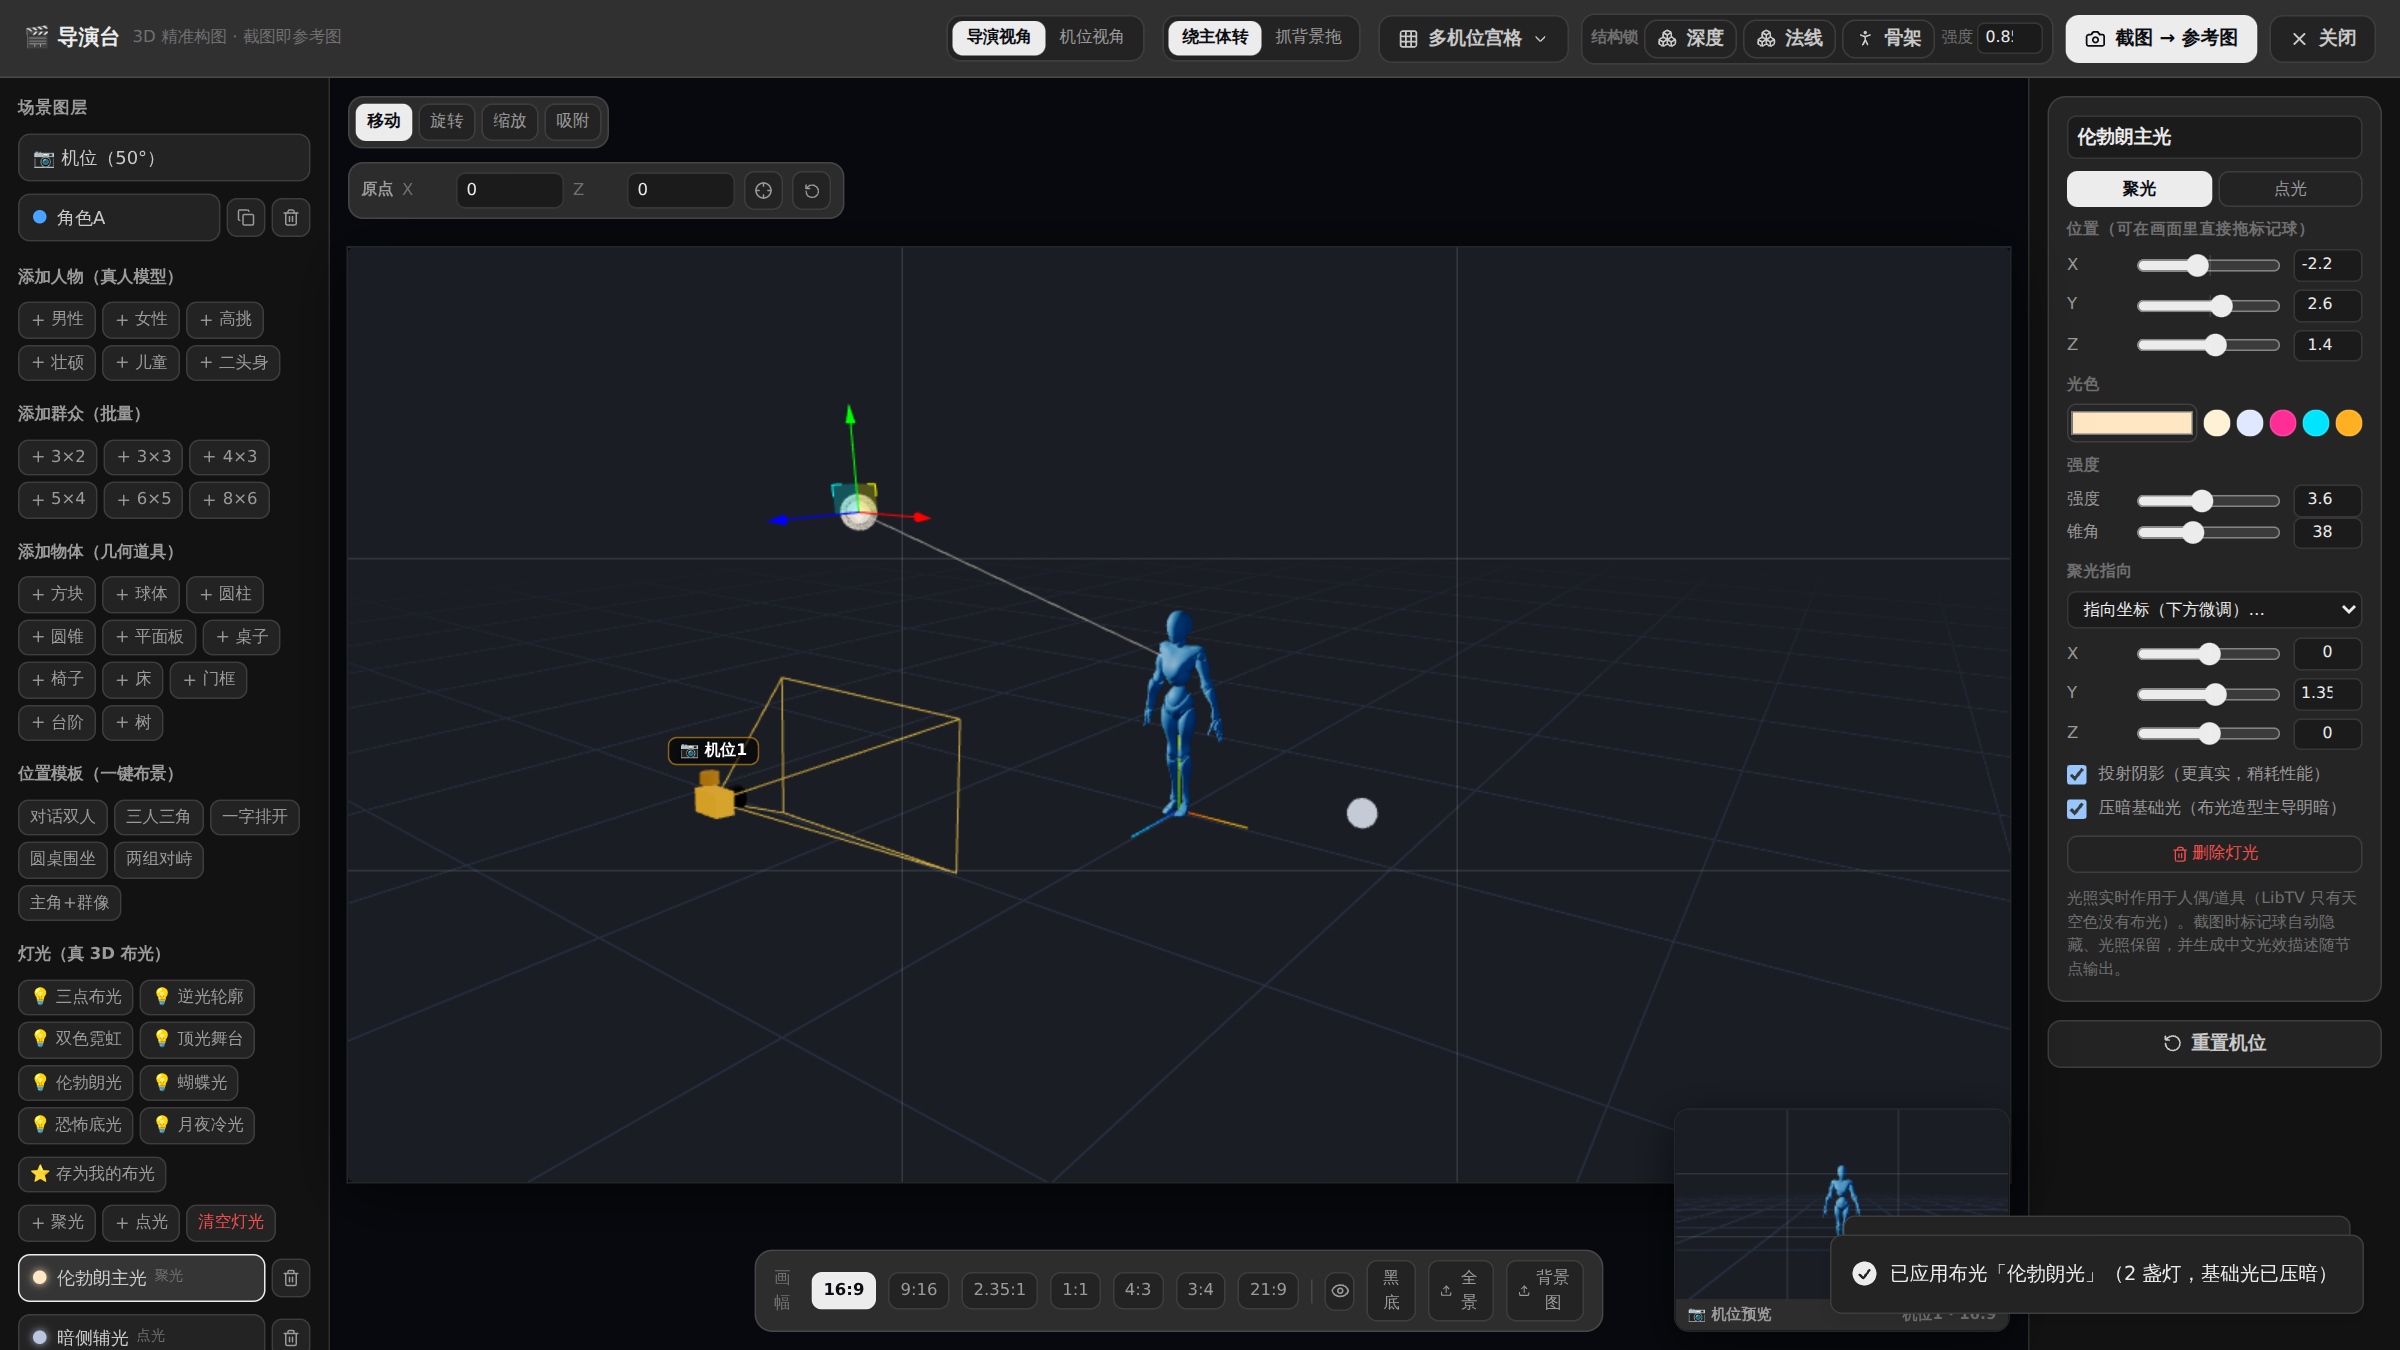
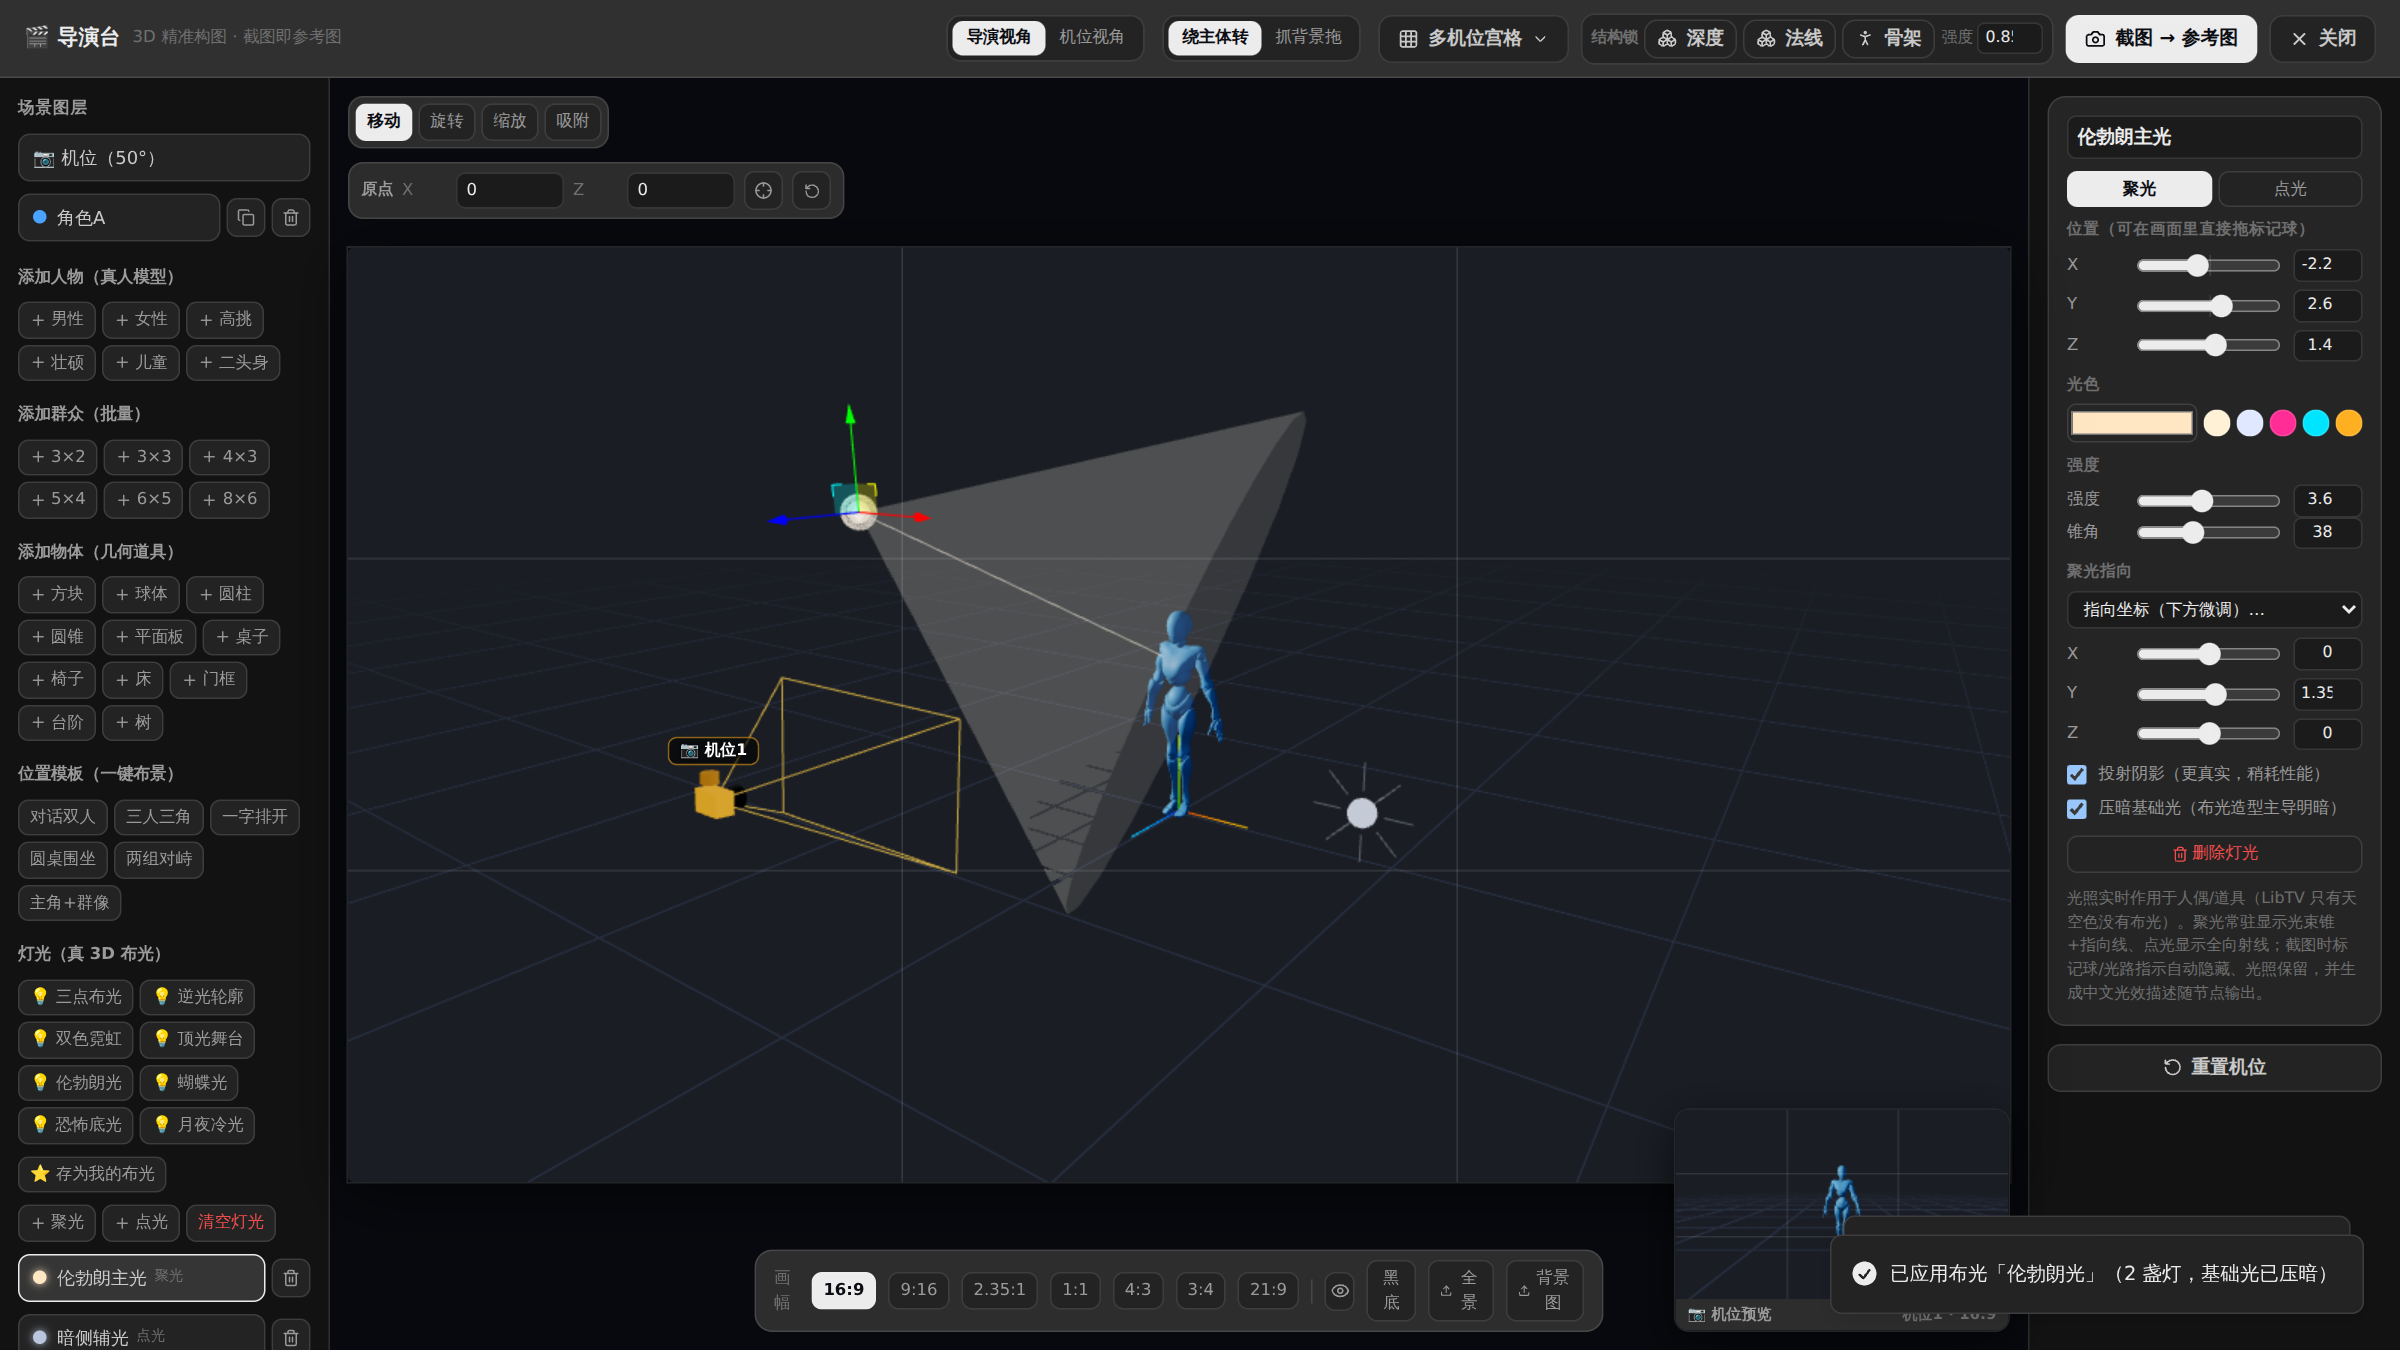
feat: 导演台灯光常驻光路指示（聚光光束锥+指向线、点光全向射线） (#887)
- 聚光灯常驻显示半透明光束锥（apex=灯位、底面=指向点、锥角同 spotLight.angle）
  与指向线/指向点，不再只在选中灯时显示（用户反馈布光没有光路指示）
- 点光显示全向短射线星形指示，提示无方向全向光源
- 选中灯时指示加亮（锥体/线条透明度提升），指示物禁用射线拾取不拦截点选
- 全部纳入 name="light-marker" 组，沿用 hideLightMarkers 截图隐藏机制，
  真机验证截图产物不含任何光路指示、光照保留
- 灯光面板提示文案同步说明；刷新教程默认截图 director-lights.png

Claude-Session: https://claude.ai/code/session_01FTUYSZYfxBa2R8veKutj4w

Changed region(s): [[0.3438, 0.3111, 0.5625, 0.6844], [0.8438, 0.6533, 1.0, 0.8089]]

diff --git a/client/src/components/canvas/director/DirectorEditor.tsx b/client/src/components/canvas/director/DirectorEditor.tsx
@@ -110,6 +110,17 @@ function Slider({ label, value, min, max, step = 1, fixed = 0, onChange }: {
 // ── #78 真 3D 灯光实体：真实 three 光源（实时照亮人偶/道具）+ 可点选标记球（截图时隐藏）──
 // 标记组 name="light-marker"：shoot/renderGrid/截图入库前统一隐藏（hideLightMarkers），
 // 控制图渲染走「顶层非 ACTORS_GROUP 全隐藏」路径自然covered。decay=0 使强度手感线性可控。
+
+// #118 光路指示共用：指示物禁用射线拾取（不拦截标记球/人偶的点选）+ 点光全向短射线顶点
+const noRaycast = () => null;
+const POINT_LIGHT_RAYS = (() => {
+  const dirs = [[1, 0, 0], [-1, 0, 0], [0, 1, 0], [0, -1, 0], [0, 0, 1], [0, 0, -1],
+    [0.707, 0.707, 0], [-0.707, 0.707, 0], [0.707, -0.707, 0], [-0.707, -0.707, 0]];
+  const pts: number[] = [];
+  for (const [x, y, z] of dirs) pts.push(x * 0.14, y * 0.14, z * 0.14, x * 0.32, y * 0.32, z * 0.32);
+  return new Float32Array(pts);
+})();
+
 function LightObj({ light, selected, onSelect, bindMarker }: {
   light: DirectorLight; selected: boolean; onSelect: () => void;
   bindMarker?: (el: THREE.Object3D | null) => void;
@@ -123,6 +134,16 @@ function LightObj({ light, selected, onSelect, bindMarker }: {
     }
   }, [light.kind, light.target]);
   const tgt = light.target ?? [0, 1.0, 0];
+  // #118 光束锥朝向/长度：apex=灯位、局部 -Z 指向 target（相机式 lookAt，同 CameraGizmo；
+  // Matrix4.lookAt 对「垂直向下打光」等与 up 平行的退化方向有内置兜底，安全）
+  const beamLen = light.kind === "spot"
+    ? Math.hypot(tgt[0] - light.position[0], tgt[1] - light.position[1], tgt[2] - light.position[2]) : 0;
+  const beamQuat = useMemo(() => {
+    if (light.kind !== "spot") return undefined;
+    const m = new THREE.Matrix4().lookAt(new THREE.Vector3(...light.position), new THREE.Vector3(tgt[0], tgt[1], tgt[2]), new THREE.Vector3(0, 1, 0));
+    return new THREE.Quaternion().setFromRotationMatrix(m);
+    // eslint-disable-next-line react-hooks/exhaustive-deps
+  }, [light.kind, light.position[0], light.position[1], light.position[2], tgt[0], tgt[1], tgt[2]]);
   return (
     <>
       {light.kind === "spot" ? (
@@ -148,19 +169,41 @@ function LightObj({ light, selected, onSelect, bindMarker }: {
           </mesh>
         )}
       </group>
-      {selected && light.kind === "spot" && (
+      {light.kind === "spot" && (
         <group name="light-marker">
-          {/* 指向线：光位 → 指向点（选中时可视化聚光方向） */}
+          {/* #118 光路指示常驻化：指向线 + 指向点 + 半透明光束锥（选中时更亮）。
+              此前仅选中灯才画指向线，用户反馈「布光没有光路指示」——改为所有聚光常驻可见。 */}
           <line>
             <bufferGeometry>
               <bufferAttribute attach="attributes-position" args={[new Float32Array([...light.position, ...tgt]), 3]} />
             </bufferGeometry>
-            <lineBasicMaterial color={light.color} transparent opacity={0.6} />
+            <lineBasicMaterial color={light.color} transparent opacity={selected ? 0.7 : 0.35} />
           </line>
-          <mesh position={tgt}>
+          <mesh position={tgt} raycast={noRaycast}>
             <sphereGeometry args={[0.055, 10, 10]} />
-            <meshBasicMaterial color={light.color} transparent opacity={0.8} />
+            <meshBasicMaterial color={light.color} transparent opacity={selected ? 0.8 : 0.45} />
           </mesh>
+          {beamLen > 0.05 && (
+            /* 光束锥：apex=灯位、底面=指向点、锥角=spotLight.angle（半角，同真实照射范围）。
+               openEnded + 双面 + 不写深度，纯视觉提示不遮挡场景、不拦截点选。 */
+            <group position={light.position} quaternion={beamQuat as never}>
+              <mesh position={[0, 0, -beamLen / 2]} rotation={[Math.PI / 2, 0, 0]} raycast={noRaycast}>
+                <coneGeometry args={[beamLen * Math.tan(((light.angle ?? 40) * Math.PI) / 180), beamLen, 24, 1, true]} />
+                <meshBasicMaterial color={light.color} transparent opacity={selected ? 0.14 : 0.07} depthWrite={false} side={THREE.DoubleSide} />
+              </mesh>
+            </group>
+          )}
+        </group>
+      )}
+      {light.kind === "point" && (
+        <group name="light-marker" position={light.position}>
+          {/* #118 点光全向短射线：提示这是无方向的全向光源 */}
+          <lineSegments raycast={noRaycast}>
+            <bufferGeometry>
+              <bufferAttribute attach="attributes-position" args={[POINT_LIGHT_RAYS, 3]} />
+            </bufferGeometry>
+            <lineBasicMaterial color={light.color} transparent opacity={selected ? 0.65 : 0.38} />
+          </lineSegments>
         </group>
       )}
     </>
@@ -1675,7 +1718,7 @@ export function DirectorEditor({ nodeId, projectId, onClose }: { nodeId: string;
                 压暗基础光（布光造型主导明暗）
               </label>
               <button onClick={() => removeLight(selectedLight.id)} style={{ ...chip, justifyContent: "center", width: "100%", marginTop: 10, color: "oklch(0.65 0.2 25)" }}><Trash2 size={11} /> 删除灯光</button>
-              <p style={hint}>光照实时作用于人偶/道具（LibTV 只有天空色没有布光）。截图时标记球自动隐藏、光照保留，并生成中文光效描述随节点输出。</p>
+              <p style={hint}>光照实时作用于人偶/道具（LibTV 只有天空色没有布光）。聚光常驻显示光束锥+指向线、点光显示全向射线；截图时标记球/光路指示自动隐藏、光照保留，并生成中文光效描述随节点输出。</p>
             </div>
           ) : selectedGroup ? (
             <div style={panel}>